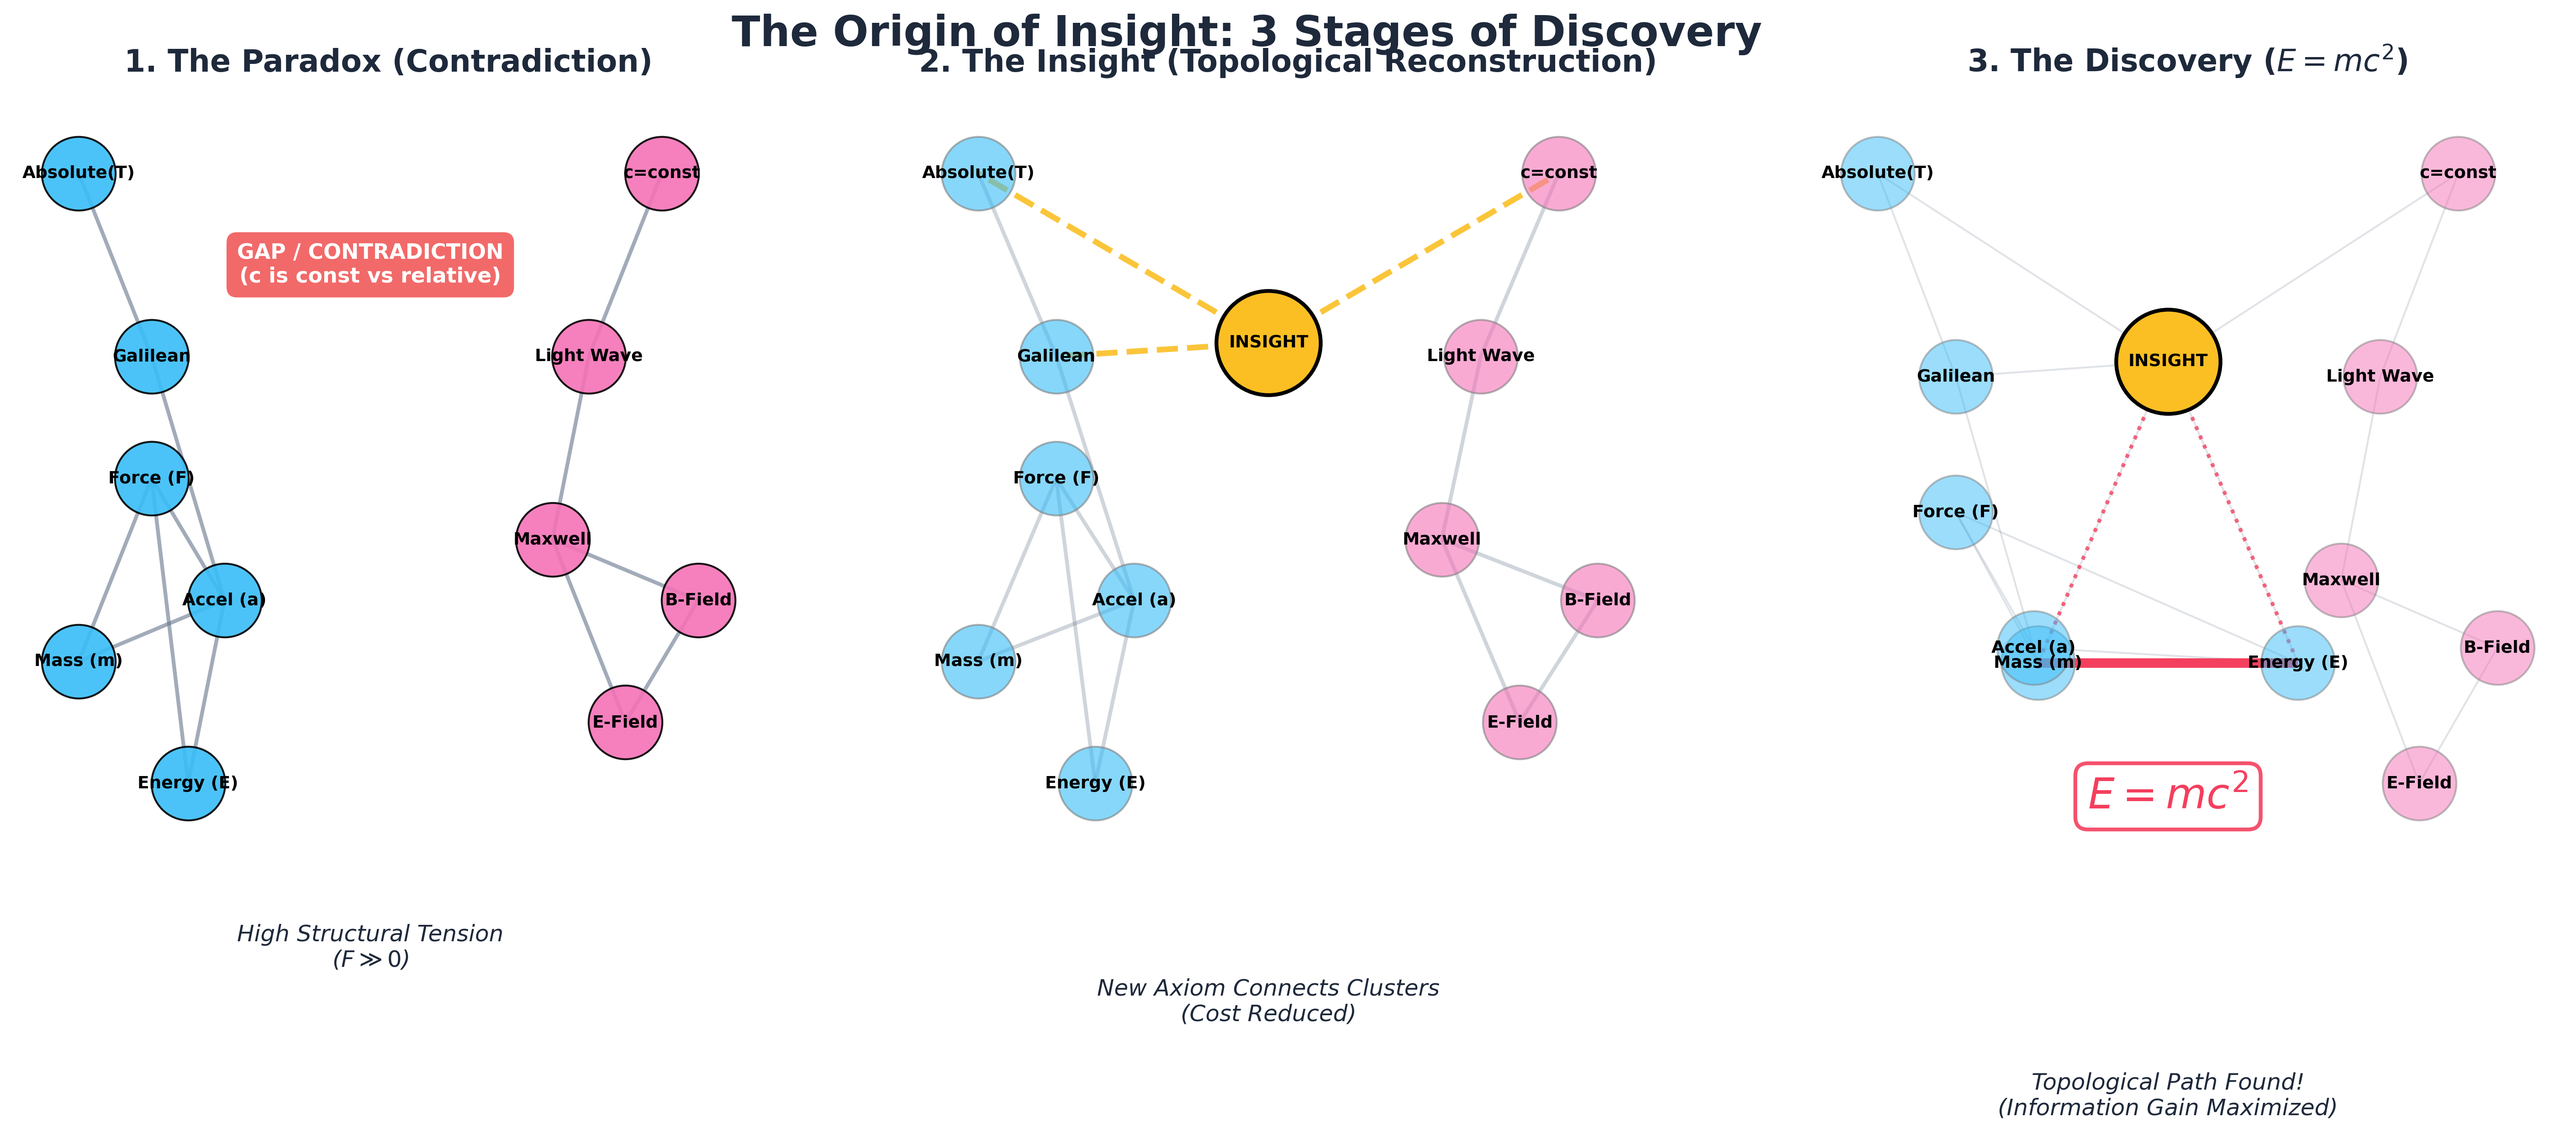
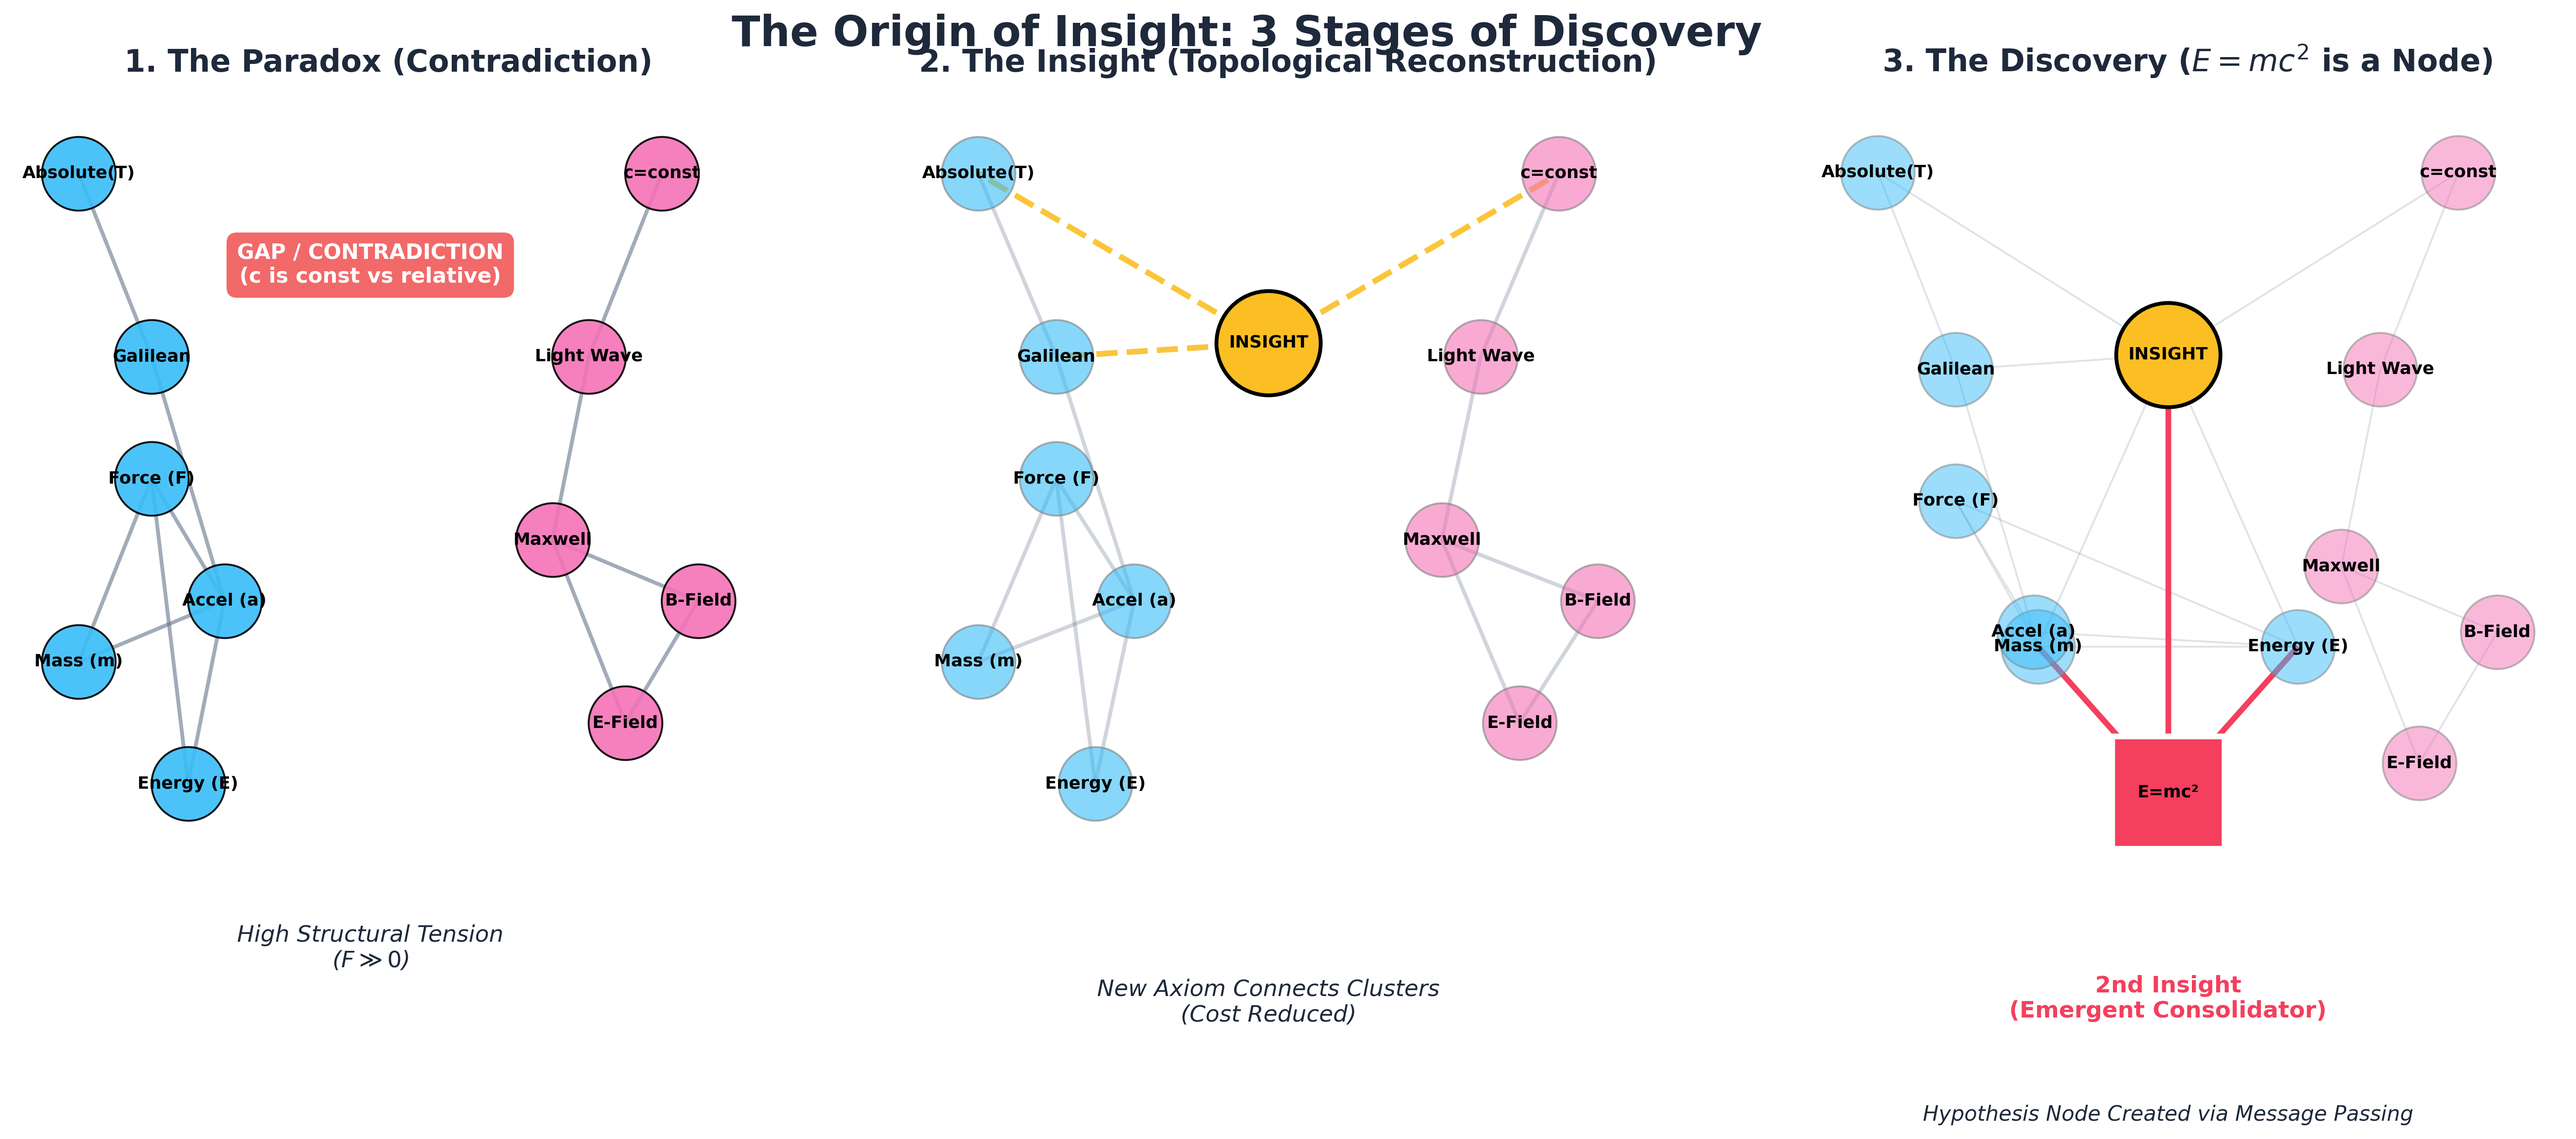
docs: Add Insight vs Understanding link and update visualization for E=mc2 node

diff --git a/scripts/vis_insight_topology.py b/scripts/vis_insight_topology.py
@@ -121,31 +121,54 @@ def create_insight_visualization():
     pos3 = pos2.copy()
     pos3["Mass (m)"] = np.array([-0.3, -0.2])   # Pull Mass to center
     pos3["Energy (E)"] = np.array([0.3, -0.2])  # Pull Energy to center
+    
+    # E=mc^2 is now a NODE (The 2nd Insight / Discovery)
+    second_insight_node = "E=mc²"
+    G3.add_node(second_insight_node, label=second_insight_node)
+    pos3[second_insight_node] = np.array([0.0, -0.4]) # Below Mass/Energy
+
+    # Connect Mass and Energy to this new node, and also link back to the 1st Insight?
+    # Or just show it emerging from Mass and Energy.
+    # User said: "E-mc2, 2nd insight"
+    
+    discovery_edges = [
+        ("Mass (m)", second_insight_node),
+        ("Energy (E)", second_insight_node)
+    ]
+    # Optionally connect 1st Insight to 2nd Insight to show derivation flow?
+    # Let's keep it simple: Mass/Energy converge to E=mc2.
+    discovery_edges.append(("INSIGHT", second_insight_node)) # The axiom enables it
+
+    G3.add_edges_from(discovery_edges)
+
+    # Label for 3rd Panel
+    ax3.set_title("3. The Discovery ($E=mc^2$ is a Node)", color=text_color, fontsize=16, pad=20, fontweight='bold')
 
     nx.draw_networkx_nodes(G3, pos3, nodelist=cluster1_nodes, node_color=node_color_Cluster1, node_size=1500, alpha=0.5, ax=ax3, edgecolors='gray', linewidths=1)
     nx.draw_networkx_nodes(G3, pos3, nodelist=cluster2_nodes, node_color=node_color_Cluster2, node_size=1500, alpha=0.5, ax=ax3, edgecolors='gray', linewidths=1)
+    
+    # 1st Insight
     nx.draw_networkx_nodes(G3, pos3, nodelist=["INSIGHT"], node_color=node_color_Insight, node_size=3000, alpha=1.0, ax=ax3, edgecolors='black', linewidths=2)
+    
+    # 2nd Insight (E=mc^2) - Different color or shape?
+    node_color_2nd = '#f43f5e' # Red/Pink
+    nx.draw_networkx_nodes(G3, pos3, nodelist=[second_insight_node], node_color=node_color_2nd, node_size=3500, alpha=1.0, ax=ax3, edgecolors='white', linewidths=3, node_shape='s') # Square
 
     # Background edges
-    bg_edges = [e for e in G3.edges() if e != emc2_edge and e not in discovery_edges]
+    bg_edges = [e for e in G3.edges() if second_insight_node not in e]
     nx.draw_networkx_edges(G3, pos3, edgelist=bg_edges, edge_color=edge_color_default, width=1, alpha=0.2, ax=ax3)
     
-    # Path highlight
-    path_edges = discovery_edges
-    nx.draw_networkx_edges(G3, pos3, edgelist=path_edges, edge_color='#f43f5e', style='dotted', width=2, alpha=0.8, ax=ax3)
+    # Path highlight (Discovery)
+    nx.draw_networkx_edges(G3, pos3, edgelist=discovery_edges, edge_color='#f43f5e', width=3, alpha=1.0, ax=ax3)
     
-    # The Big Result
-    nx.draw_networkx_edges(G3, pos3, edgelist=[emc2_edge], edge_color='#f43f5e', width=5, alpha=1.0, ax=ax3)
-    
+    # Labels
     nx.draw_networkx_labels(G3, pos3, font_size=9, font_color='black', font_weight='bold', ax=ax3)
+    
+    # Custom label for 2nd Insight to make it stand out
+    # (NetworkX labels are fine, but let's add the specific text user requested)
+    ax3.text(0, -0.65, "2nd Insight\n(Emergent Consolidator)", ha='center', va='top', color='#f43f5e', fontsize=12, fontweight='bold')
 
-    # Label E=mc2
-    edge_center = (pos3["Mass (m)"] + pos3["Energy (E)"]) / 2
-    ax3.text(edge_center[0], edge_center[1]-0.15, r"$E=mc^2$", 
-             ha='center', va='top', fontsize=22, color='#f43f5e', fontweight='bold',
-             bbox=dict(facecolor='white', alpha=0.9, edgecolor='#f43f5e', boxstyle='round,pad=0.3', linewidth=2))
-
-    ax3.text(0, -0.8, "Topological Path Found!\n(Information Gain Maximized)", ha='center', color=text_color, fontsize=12, style='italic')
+    ax3.text(0, -0.85, "Hypothesis Node Created via Message Passing", ha='center', color=text_color, fontsize=11, style='italic')
     ax3.set_axis_off()
 
     # Title for whole figure
